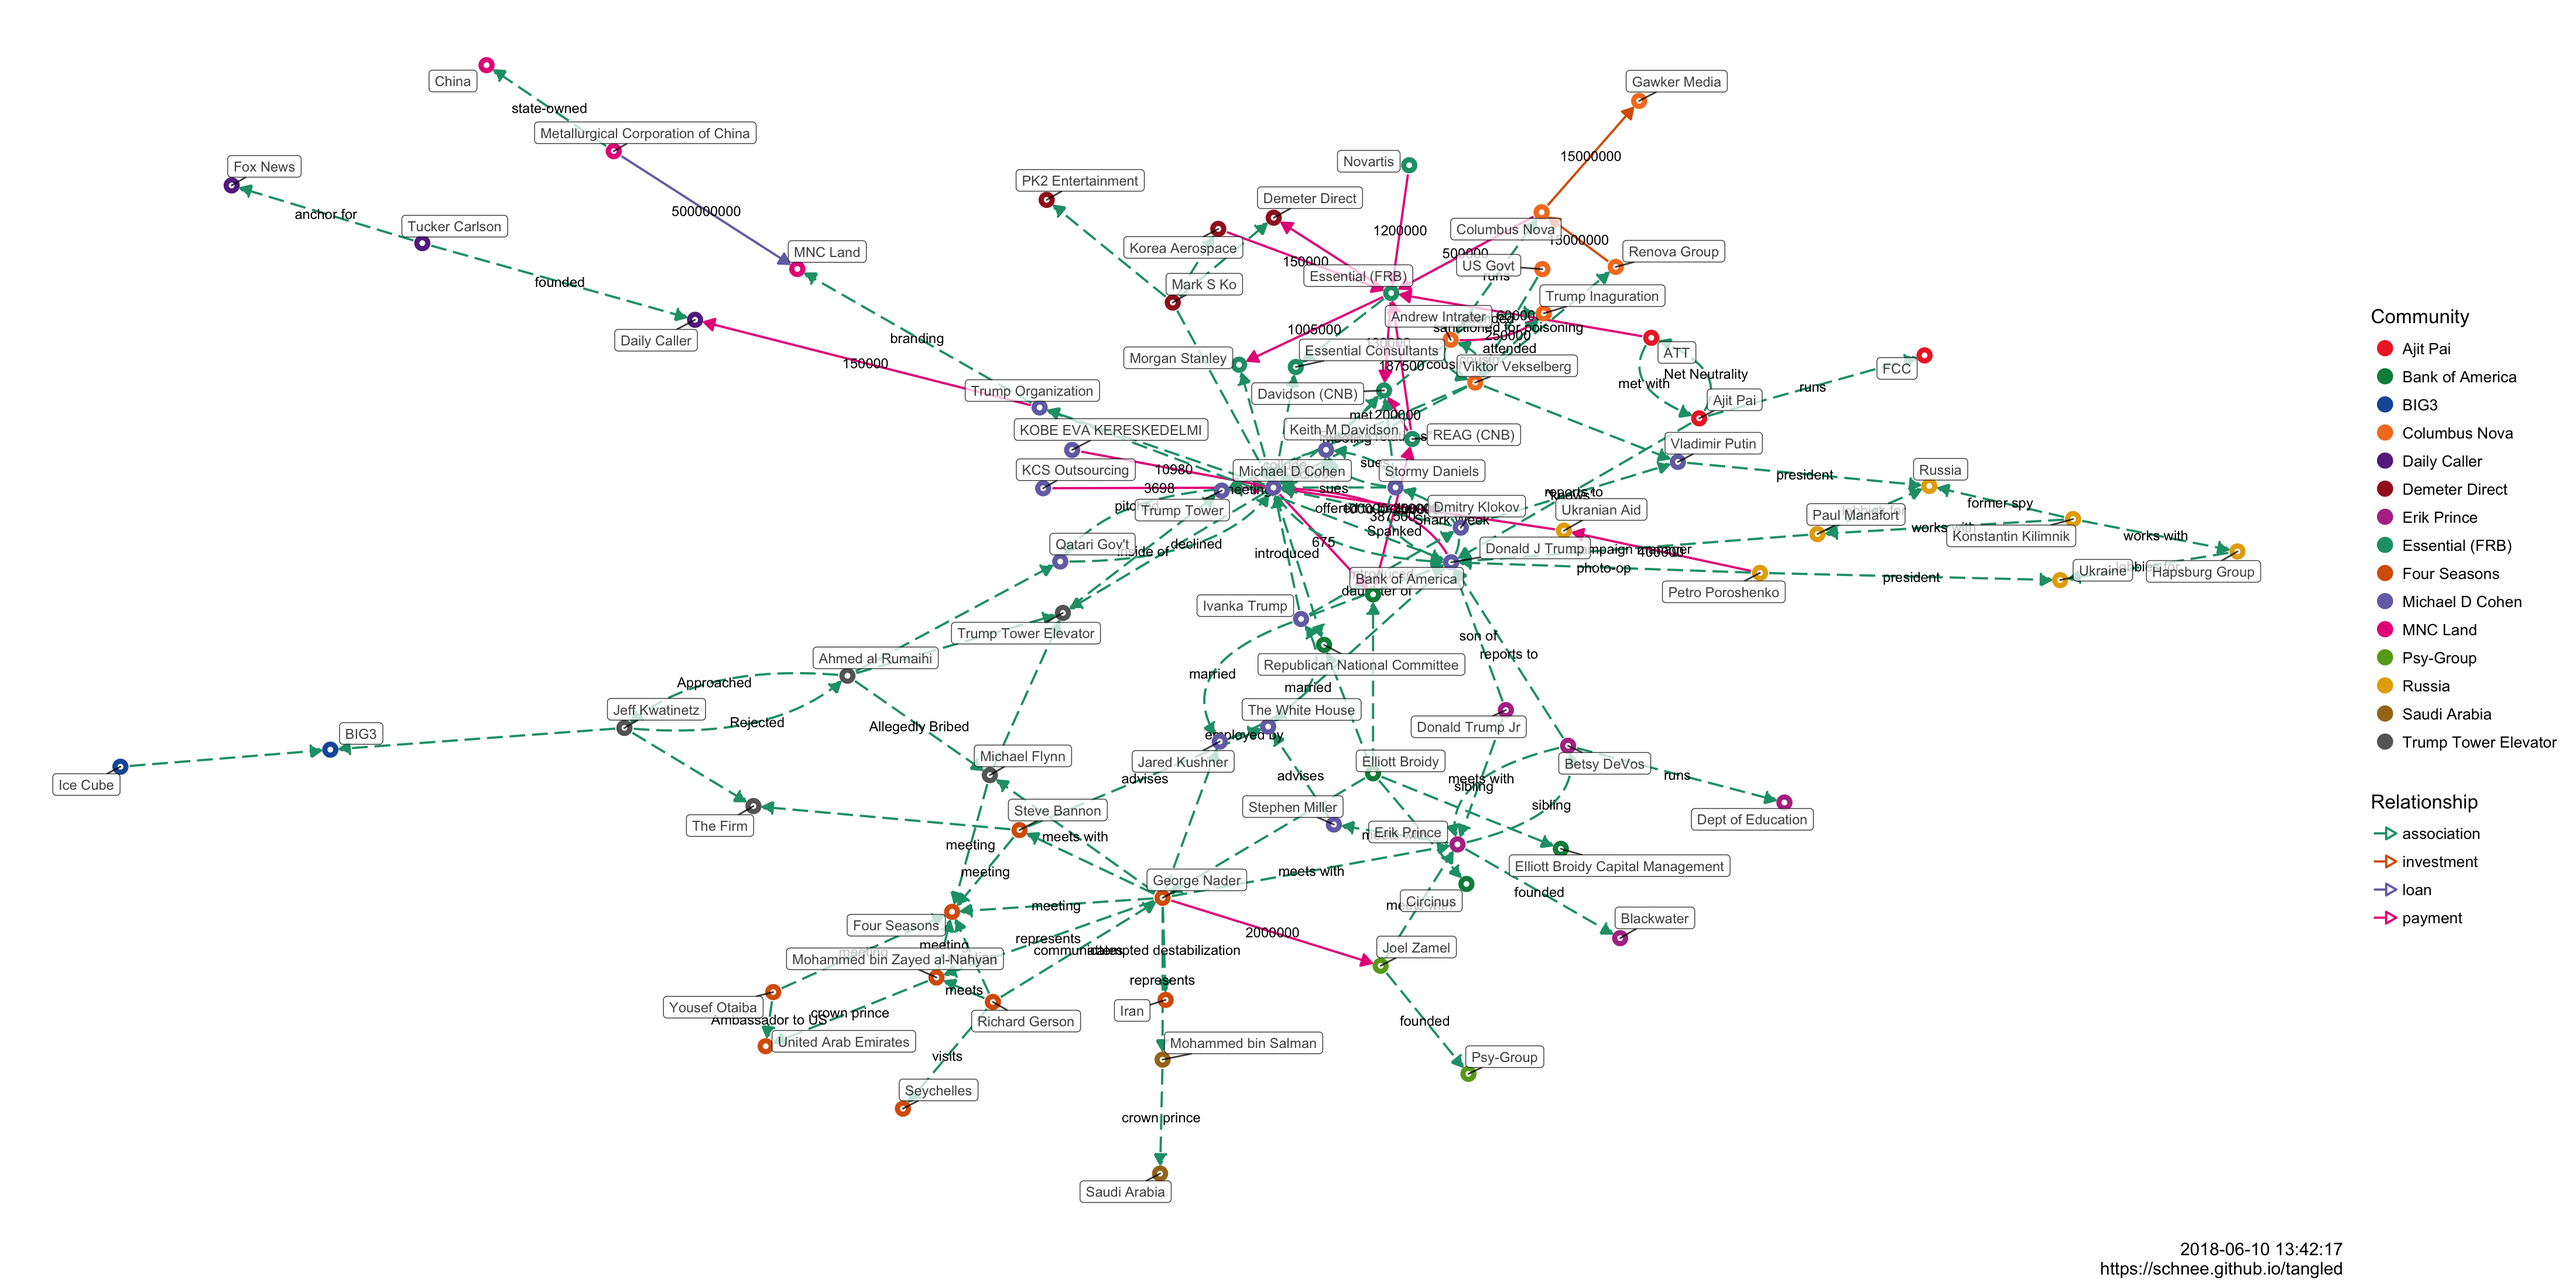
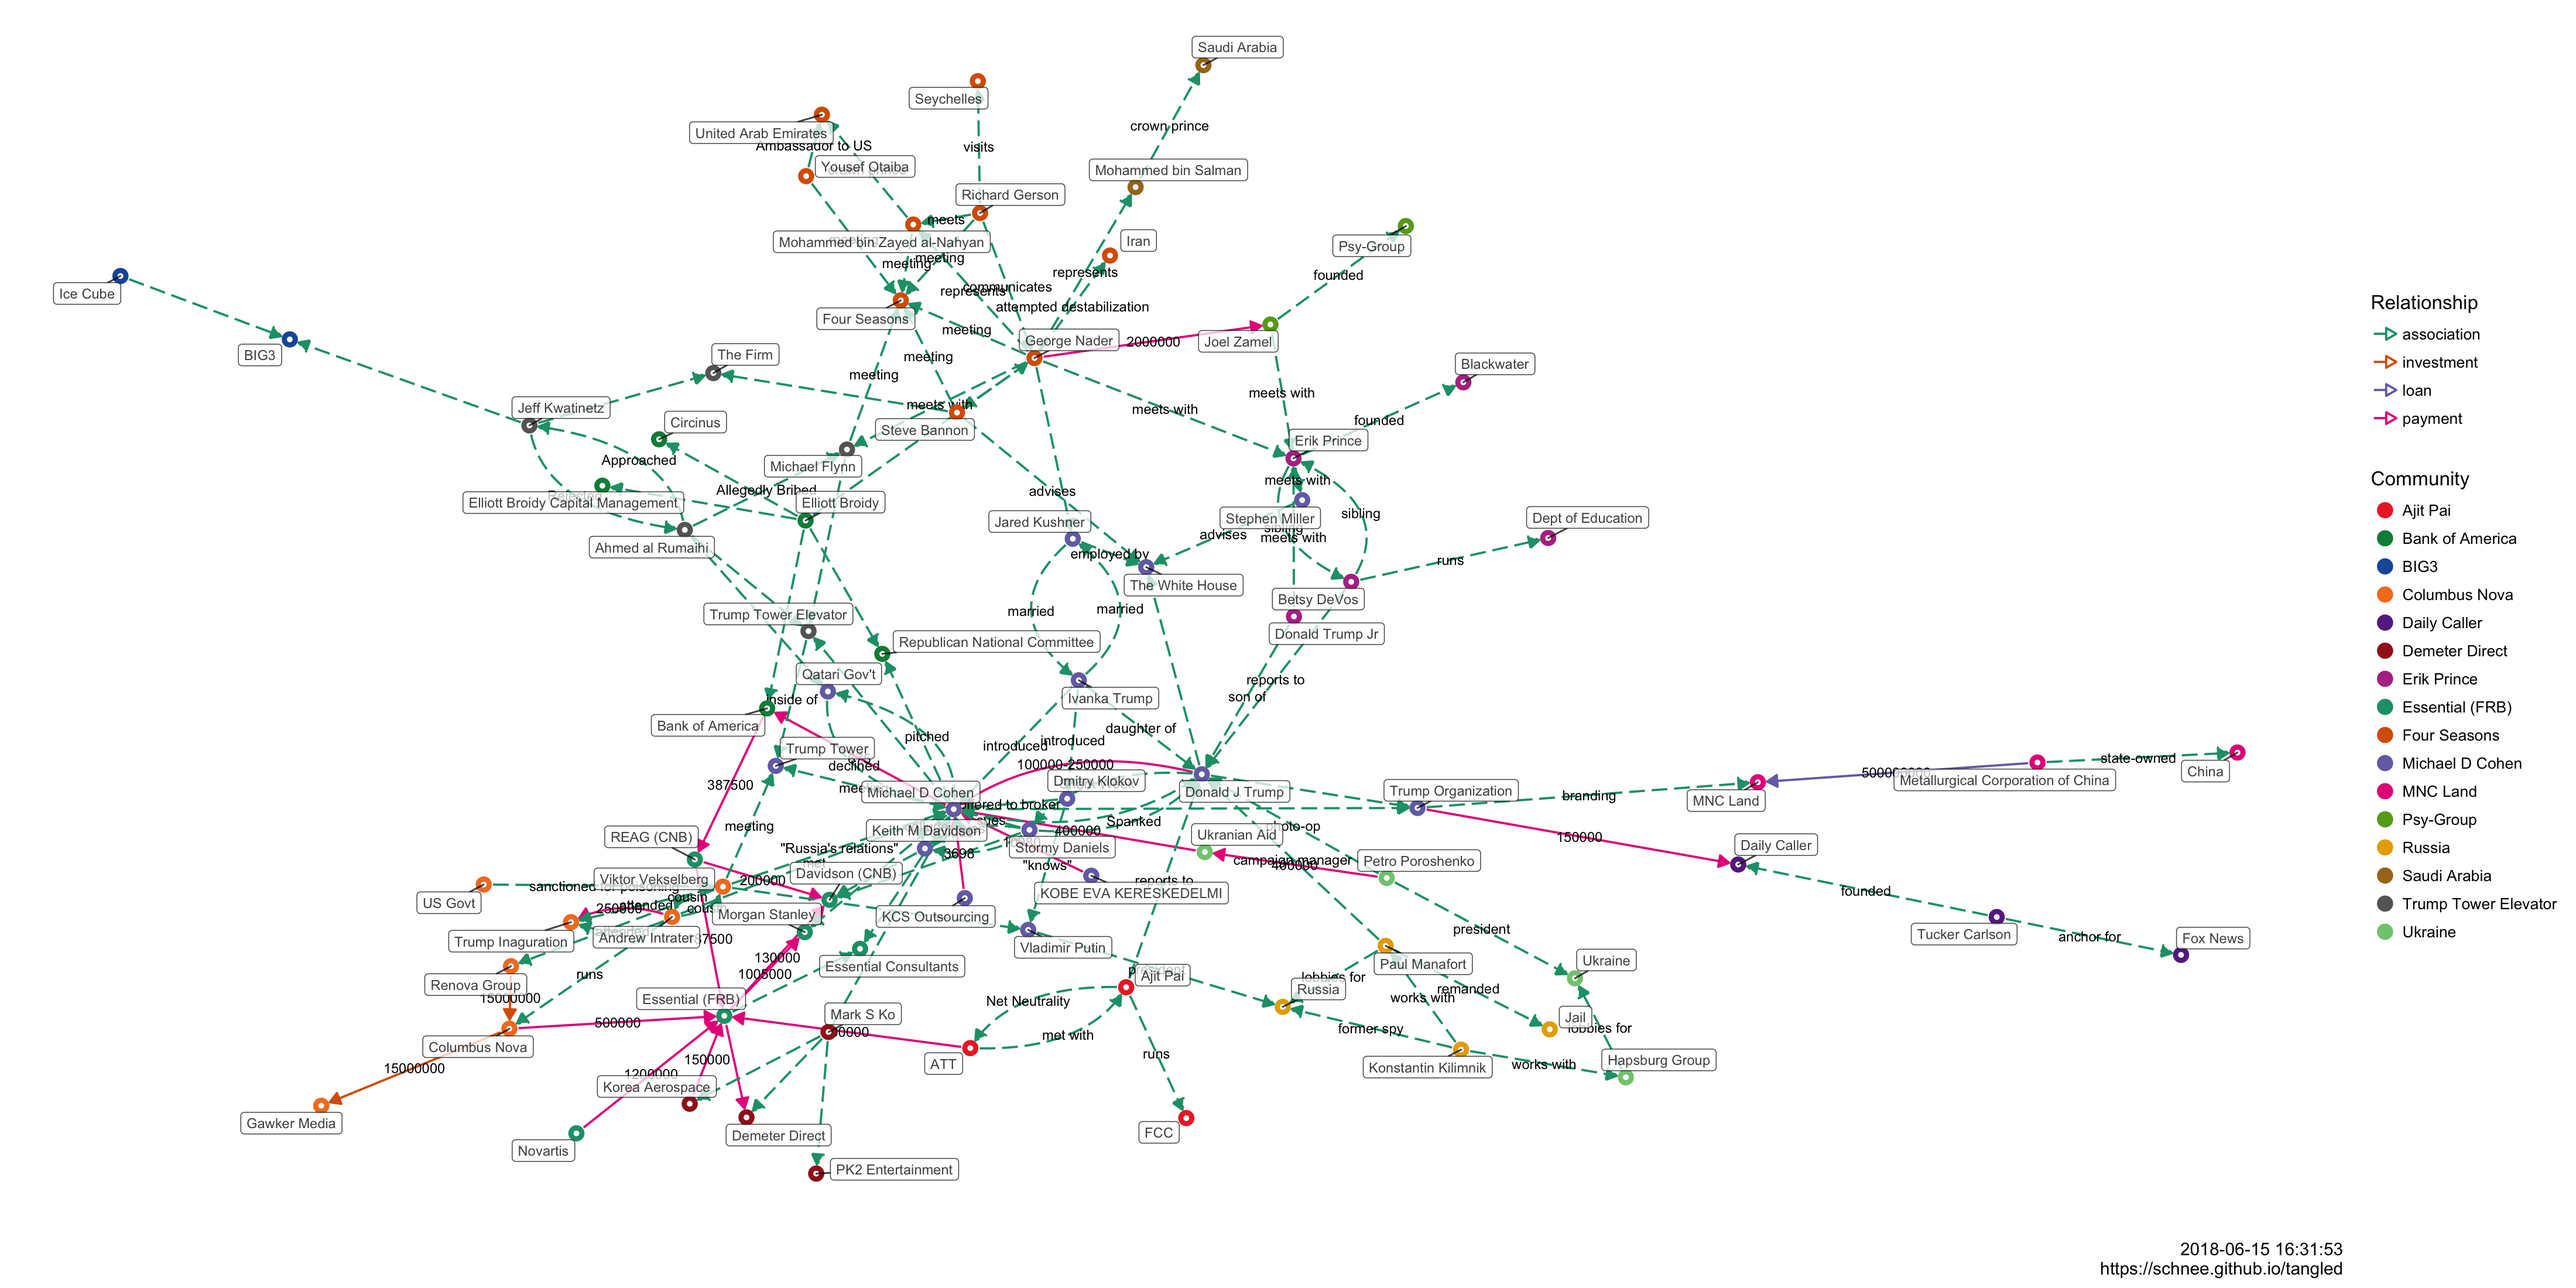
updated

diff --git a/docs/tangled-d3.html b/docs/tangled-d3.html
@@ -1143,11 +1143,11 @@ return function(){for(var n=0,e=0;e<t;++e)n+=Math.random();return n}},um=functio
 </head>
 <body style="background-color: white;">
 <div id="htmlwidget_container">
-<div id="htmlwidget-5c45242ea9ae15c3095f" class="forceNetwork html-widget" style="width:960px;height:500px;">
+<div id="htmlwidget-0fb6a8fe77677346932f" class="forceNetwork html-widget" style="width:960px;height:500px;">
 
 </div>
 </div>
-<script type="application/json" data-for="htmlwidget-5c45242ea9ae15c3095f">{"x":{"links":{"source":[0,1,2,3,3,4,5,5,5,6,7,8,9,10,11,12,13,14,14,15,16,17,5,11,0,0,18,0,18,18,0,19,11,20,21,21,18,22,22,22,22,11,4,4,21,11,11,23,23,23,23,4,11,24,25,25,26,27,26,26,28,25,25,29,29,29,1,28,22,6,6,30,30,31,31,11,32,33,33,6,34,35,36,6,6,37,38,36,39,35,6,6,34,36,40,40,40,16,10,13,13,11,18,18,41,42,42,42,42,6,38,24,28,43,43,31,31,44,44,21,21,11,20,45,46,45,47,48,47,45],"target":[49,5,14,5,50,11,51,52,53,35,11,11,5,54,2,5,17,51,5,3,55,11,56,56,3,11,15,18,0,49,49,18,4,51,51,20,48,57,58,59,2,53,60,21,4,16,57,52,61,11,9,16,41,41,41,26,25,62,63,62,63,32,24,1,4,64,29,60,6,28,30,60,31,30,4,32,11,55,65,36,36,36,66,38,37,67,68,39,60,69,24,70,4,40,36,71,4,54,72,4,73,74,74,11,74,75,38,6,76,76,76,76,76,76,68,11,44,11,48,20,11,20,11,46,73,47,77,77,4,77],"colour":["red","red","red","red","blue","red","red","red","red","red","red","red","red","blue","red","red","red","red","red","blue","red","red","blue","blue","blue","blue","blue","blue","blue","blue","blue","blue","blue","blue","blue","blue","blue","blue","blue","blue","blue","blue","blue","blue","blue","blue","blue","blue","blue","blue","blue","blue","blue","blue","blue","blue","blue","blue","blue","blue","blue","blue","blue","blue","blue","blue","blue","blue","blue","blue","blue","blue","blue","blue","blue","blue","blue","blue","blue","blue","blue","blue","blue","blue","blue","blue","blue","blue","blue","blue","blue","blue","blue","blue","blue","blue","blue","blue","blue","blue","blue","blue","blue","blue","blue","blue","blue","blue","blue","blue","blue","blue","blue","blue","blue","blue","blue","blue","blue","blue","blue","blue","blue","blue","blue","blue","blue","blue","blue","blue"]},"nodes":{"name":["Andrew Intrater","ATT","Bank of America","Columbus Nova","Donald J Trump","Essential (FRB)","George Nader","KCS Outsourcing","KOBE EVA KERESKEDELMI","Korea Aerospace","Metallurgical Corporation of China","Michael D Cohen","Novartis","Petro Poroshenko","REAG (CNB)","Renova Group","Trump Organization","Ukranian Aid","Viktor Vekselberg","US Govt","Keith M Davidson","Stormy Daniels","Elliott Broidy","Mark S Ko","Michael Flynn","Ahmed al Rumaihi","Jeff Kwatinetz","Ice Cube","Steve Bannon","Ajit Pai","Jared Kushner","Ivanka Trump","Qatari Gov't","Tucker Carlson","Donald Trump Jr","Joel Zamel","Erik Prince","Mohammed bin Salman","Mohammed bin Zayed al-Nahyan","Stephen Miller","Betsy DeVos","Trump Tower Elevator","Richard Gerson","Yousef Otaiba","Dmitry Klokov","Konstantin Kilimnik","Hapsburg Group","Paul Manafort","Vladimir Putin","Trump Inaguration","Gawker Media","Davidson (CNB)","Demeter Direct","Morgan Stanley","MNC Land","Daily Caller","Essential Consultants","Republican National Committee","Elliott Broidy Capital Management","Circinus","The White House","PK2 Entertainment","BIG3","The Firm","FCC","Fox News","Blackwater","Saudi Arabia","United Arab Emirates","Psy-Group","Iran","Dept of Education","China","Ukraine","Trump Tower","Seychelles","Four Seasons","Russia"],"group":["4","12","8","4","1","5","2","1","1","9","11","1","5","3","5","4","1","3","4","4","1","1","8","9","7","7","7","15","2","12","1","1","1","10","6","13","6","14","2","1","6","7","2","2","1","3","3","3","1","4","4","5","9","5","11","10","5","8","8","8","1","9","15","7","12","10","6","14","2","13","2","6","11","3","1","2","2","3"]},"options":{"NodeID":"name","Group":"group","colourScale":"d3.scaleOrdinal(d3.schemeCategory20);","fontSize":20,"fontFamily":"serif","clickTextSize":50,"linkDistance":50,"linkWidth":"function(d) { return Math.sqrt(d.value); }","charge":-100,"opacity":1,"zoom":true,"legend":false,"arrows":false,"nodesize":false,"radiusCalculation":" Math.sqrt(d.nodesize)+6","bounded":false,"opacityNoHover":1,"clickAction":null}},"evals":[],"jsHooks":[]}</script>
-<script type="application/htmlwidget-sizing" data-for="htmlwidget-5c45242ea9ae15c3095f">{"viewer":{"width":450,"height":350,"padding":10,"fill":true},"browser":{"width":960,"height":500,"padding":10,"fill":true}}</script>
+<script type="application/json" data-for="htmlwidget-0fb6a8fe77677346932f">{"x":{"links":{"source":[0,1,2,3,3,4,5,5,5,6,7,8,9,10,11,12,13,14,14,15,16,17,5,11,0,0,18,0,18,18,0,19,11,20,21,21,18,22,22,22,22,11,4,4,21,11,11,23,23,23,23,4,11,24,25,25,26,27,26,26,28,25,25,29,29,29,1,28,22,6,6,30,30,31,31,11,32,33,33,6,34,35,36,6,6,37,38,36,39,35,6,6,34,36,40,40,40,16,10,13,13,11,18,18,41,42,42,42,42,6,38,24,28,43,43,31,31,44,44,21,21,11,20,45,46,45,47,48,47,45,47],"target":[49,5,14,5,50,11,51,52,53,35,11,11,5,54,2,5,17,51,5,3,55,11,56,56,3,11,15,18,0,49,49,18,4,51,51,20,48,57,58,59,2,53,60,21,4,16,57,52,61,11,9,16,41,41,41,26,25,62,63,62,63,32,24,1,4,64,29,60,6,28,30,60,31,30,4,32,11,55,65,36,36,36,66,38,37,67,68,39,60,69,24,70,4,40,36,71,4,54,72,4,73,74,74,11,74,75,38,6,76,76,76,76,76,76,68,11,44,11,48,20,11,20,11,46,73,47,77,77,4,77,78],"colour":["red","red","red","red","blue","red","red","red","red","red","red","red","red","blue","red","red","red","red","red","blue","red","red","blue","blue","blue","blue","blue","blue","blue","blue","blue","blue","blue","blue","blue","blue","blue","blue","blue","blue","blue","blue","blue","blue","blue","blue","blue","blue","blue","blue","blue","blue","blue","blue","blue","blue","blue","blue","blue","blue","blue","blue","blue","blue","blue","blue","blue","blue","blue","blue","blue","blue","blue","blue","blue","blue","blue","blue","blue","blue","blue","blue","blue","blue","blue","blue","blue","blue","blue","blue","blue","blue","blue","blue","blue","blue","blue","blue","blue","blue","blue","blue","blue","blue","blue","blue","blue","blue","blue","blue","blue","blue","blue","blue","blue","blue","blue","blue","blue","blue","blue","blue","blue","blue","blue","blue","blue","blue","blue","blue","blue"]},"nodes":{"name":["Andrew Intrater","ATT","Bank of America","Columbus Nova","Donald J Trump","Essential (FRB)","George Nader","KCS Outsourcing","KOBE EVA KERESKEDELMI","Korea Aerospace","Metallurgical Corporation of China","Michael D Cohen","Novartis","Petro Poroshenko","REAG (CNB)","Renova Group","Trump Organization","Ukranian Aid","Viktor Vekselberg","US Govt","Keith M Davidson","Stormy Daniels","Elliott Broidy","Mark S Ko","Michael Flynn","Ahmed al Rumaihi","Jeff Kwatinetz","Ice Cube","Steve Bannon","Ajit Pai","Jared Kushner","Ivanka Trump","Qatari Gov't","Tucker Carlson","Donald Trump Jr","Joel Zamel","Erik Prince","Mohammed bin Salman","Mohammed bin Zayed al-Nahyan","Stephen Miller","Betsy DeVos","Trump Tower Elevator","Richard Gerson","Yousef Otaiba","Dmitry Klokov","Konstantin Kilimnik","Hapsburg Group","Paul Manafort","Vladimir Putin","Trump Inaguration","Gawker Media","Davidson (CNB)","Demeter Direct","Morgan Stanley","MNC Land","Daily Caller","Essential Consultants","Republican National Committee","Elliott Broidy Capital Management","Circinus","The White House","PK2 Entertainment","BIG3","The Firm","FCC","Fox News","Blackwater","Saudi Arabia","United Arab Emirates","Psy-Group","Iran","Dept of Education","China","Ukraine","Trump Tower","Seychelles","Four Seasons","Russia","Jail"],"group":["3","13","7","3","1","4","2","1","1","9","11","1","4","8","4","3","1","8","3","3","1","1","7","9","6","6","6","16","2","13","1","1","1","12","5","14","5","15","2","1","5","6","2","2","1","10","8","10","1","3","3","4","9","4","11","12","4","7","7","7","1","9","16","6","13","12","5","15","2","14","2","5","11","8","1","2","2","10","10"]},"options":{"NodeID":"name","Group":"group","colourScale":"d3.scaleOrdinal(d3.schemeCategory20);","fontSize":20,"fontFamily":"serif","clickTextSize":50,"linkDistance":50,"linkWidth":"function(d) { return Math.sqrt(d.value); }","charge":-100,"opacity":1,"zoom":true,"legend":false,"arrows":false,"nodesize":false,"radiusCalculation":" Math.sqrt(d.nodesize)+6","bounded":false,"opacityNoHover":1,"clickAction":null}},"evals":[],"jsHooks":[]}</script>
+<script type="application/htmlwidget-sizing" data-for="htmlwidget-0fb6a8fe77677346932f">{"viewer":{"width":450,"height":350,"padding":10,"fill":true},"browser":{"width":960,"height":500,"padding":10,"fill":true}}</script>
 </body>
 </html>
